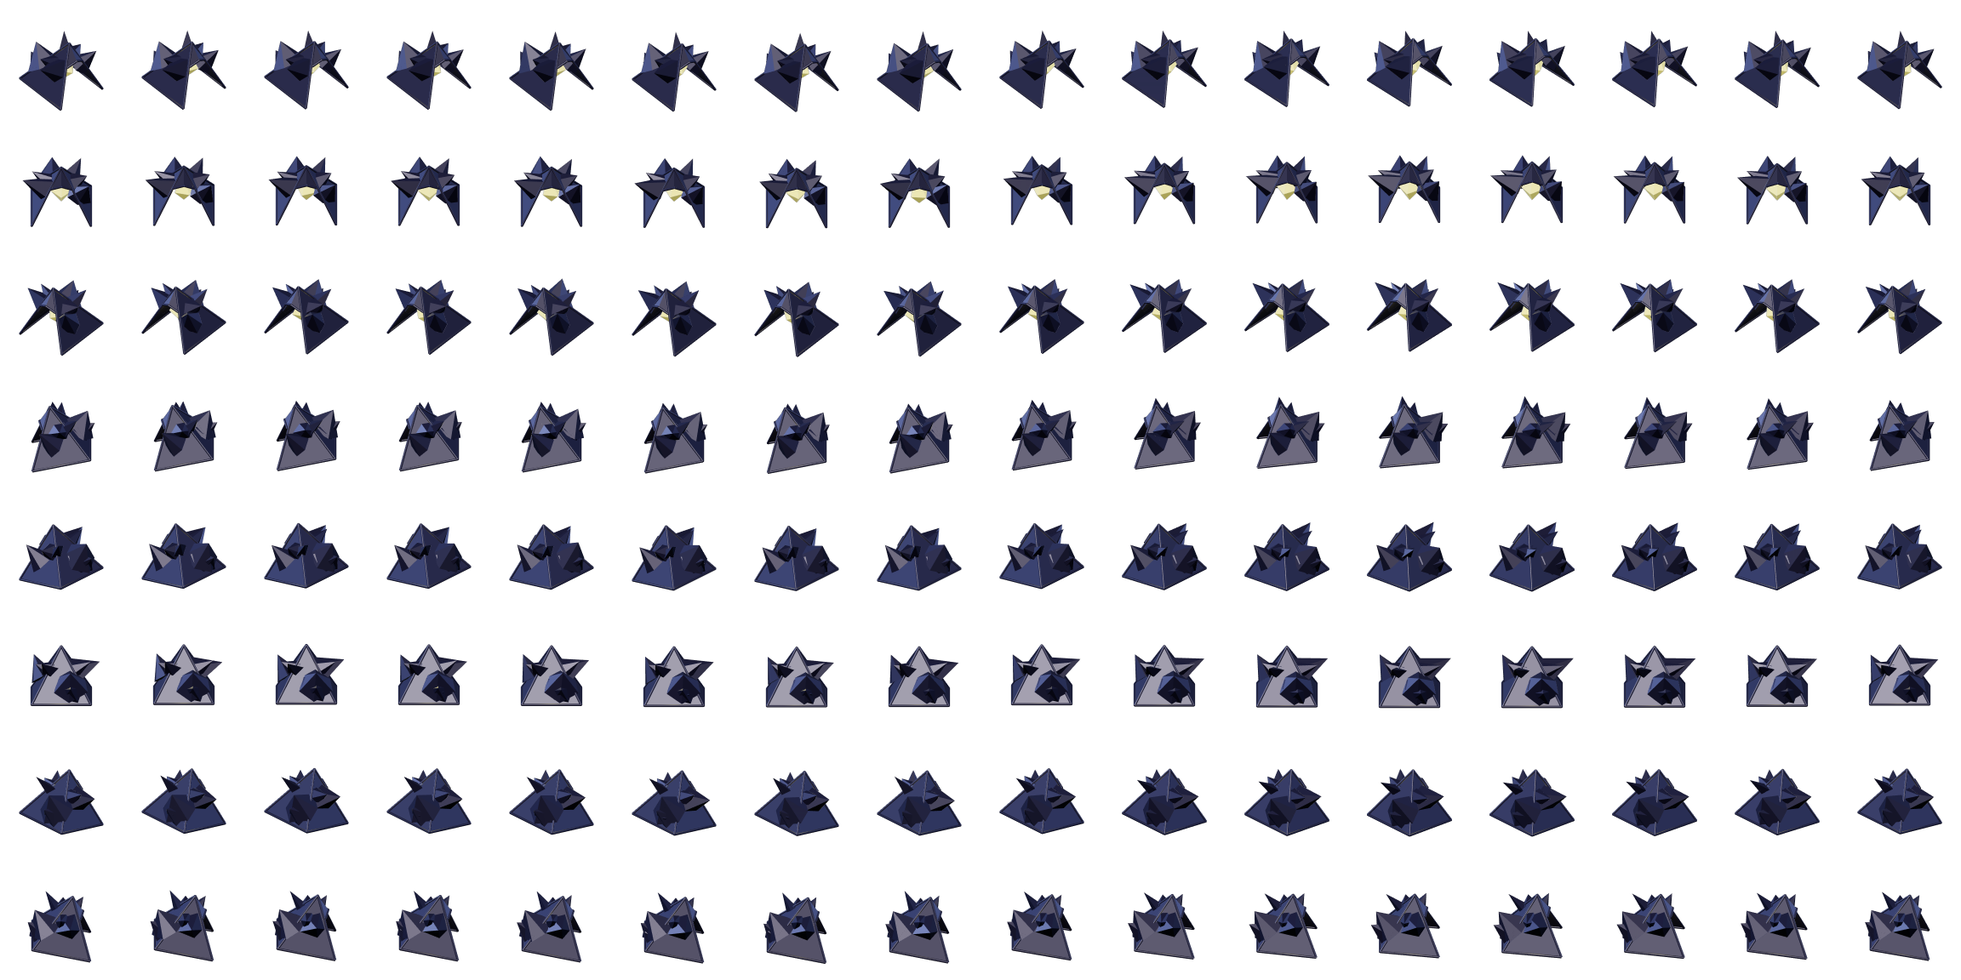
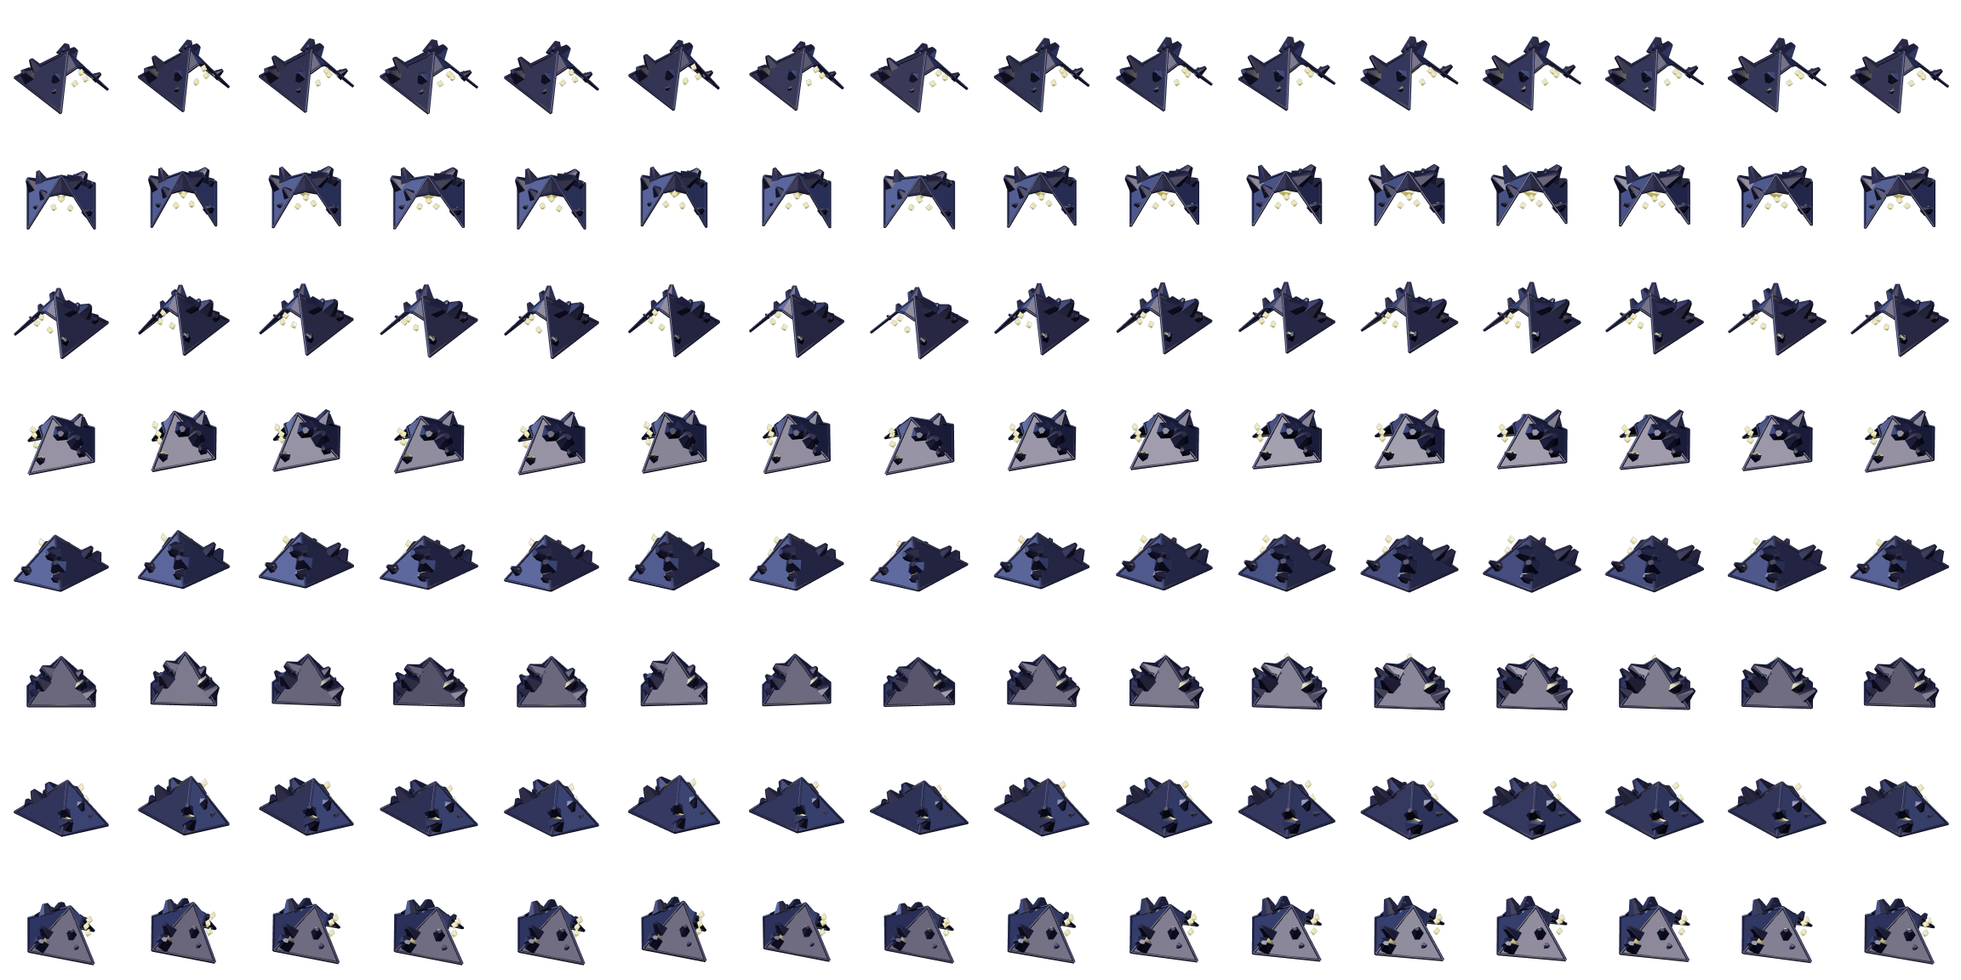
Prism Hood: the cute hood of design No. 388, three hovering gems in a triangle before the diamond; the shard twitch is gone
The electric brawler (still id 'prism', so saves and followers carry over) is re-baked from No. 391: the hollow black pyramid
hood drooping over the diamond, black hex crystals breathing on its coat, three small gems hovering in a triangle
(one above two) before the diamond, a squash-and-stretch bounce. The diamond turns a quarter turn a loop and the
gems half a turn, so the 8 idle frames close; the twitch (frame-rate jolts) is removed from evolution.js and
its test replaced by one that the hood advances one frame per 7 steps like the others. Build 2026-10-16i.

Claude-Session: https://claude.ai/code/session_0115DZYYhipQqSk6LHvQcEfz

diff --git a/game.html b/game.html
@@ -1363,12 +1363,12 @@ function _showError(msg) {
 // Script files that failed to download. A missing file raises no error of its
 // own — only the "Can't find variable" from whatever needed it — so the load
 // failure is caught here, on its way down (capture phase).
-// THE BUILD. Every script URL below carries ?v=2026-10-16h, so a new deploy
+// THE BUILD. Every script URL below carries ?v=2026-10-16i, so a new deploy
 // fetches a matching set: REPORTED, an iPad ran the new js/indexart.js against
 // an old cached js/config.js ("Attempted to assign to readonly property").
 // Change this, the ?v= on every script tag and BUILD_VERSION in js/config.js
 // together (tests/boot.js checks they agree).
-window.__PAGE_BUILD = "2026-10-16h";
+window.__PAGE_BUILD = "2026-10-16i";
 window.__bootFailed = [];
 window.addEventListener("error", function (e) {
     var t = e && e.target;
@@ -1404,53 +1404,53 @@ if (!CanvasRenderingContext2D.prototype.roundRect) {
 </script>
 
 <!-- Game scripts — load order matters (globals first, logic last) -->
-<script src="js/config.js?v=2026-10-16h"></script>
-<script src="js/icons.js?v=2026-10-16h"></script>
-<script src="js/rng.js?v=2026-10-16h"></script>
-<script src="js/traits.js?v=2026-10-16h"></script>
-<script src="js/elements.js?v=2026-10-16h"></script>
-<script src="js/combat.js?v=2026-10-16h"></script>
-<script src="js/species.js?v=2026-10-16h"></script>
-<script src="js/levels.js?v=2026-10-16h"></script>
-<script src="js/predator_randomizer.js?v=2026-10-16h"></script>
-<script src="js/mass.js?v=2026-10-16h"></script>
-<script src="js/infest.js?v=2026-10-16h"></script>
-<script src="js/power.js?v=2026-10-16h"></script>
-<script src="js/save.js?v=2026-10-16h"></script>
-<script src="js/camp.js?v=2026-10-16h"></script>
-<script src="js/wavedata.js?v=2026-10-16h"></script>
-<script src="js/helpers.js?v=2026-10-16h"></script>
-<script src="js/predator.js?v=2026-10-16h"></script>
-<script src="js/abilities.js?v=2026-10-16h"></script>
-<script src="js/world.js?v=2026-10-16h"></script>
-<script src="js/commands.js?v=2026-10-16h"></script>
-<script src="js/npc.js?v=2026-10-16h"></script>
-<script src="js/codex.js?v=2026-10-16h"></script>
-<script src="js/draw.js?v=2026-10-16h"></script>
-<script src="js/beetle3d.js?v=2026-10-16h"></script>
-<script src="js/bugs3d.js?v=2026-10-16h"></script>
-<script src="js/ui.js?v=2026-10-16h"></script>
-<script src="js/waves.js?v=2026-10-16h"></script>
-<script src="js/drops.js?v=2026-10-16h"></script>
-<script src="js/clone.js?v=2026-10-16h"></script>
-<script src="js/clonework.js?v=2026-10-16h"></script>
-<script src="js/broods.js?v=2026-10-16h"></script>
-<script src="js/raids.js?v=2026-10-16h"></script>
-<script src="js/ultra.js?v=2026-10-16h"></script>
-<script src="js/formations.js?v=2026-10-16h"></script>
-<script src="js/breakout.js?v=2026-10-16h"></script>
-<script src="js/nightraids.js?v=2026-10-16h"></script>
-<script src="js/bonds.js?v=2026-10-16h"></script>
-<script src="js/autoplay.js?v=2026-10-16h"></script>
-<script src="js/indexart.js?v=2026-10-16h"></script>
-<script src="js/modules.js?v=2026-10-16h"></script>
-<script src="js/shieldcells.js?v=2026-10-16h"></script>
-<script src="js/evolution.js?v=2026-10-16h"></script>
-<script src="js/buildmenu.js?v=2026-10-16h"></script>
-<script src="js/input.js?v=2026-10-16h"></script>
-<script src="js/game.js?v=2026-10-16h"></script>
-<script src="js/tutorial.js?v=2026-10-16h"></script>
-<script src="js/dev.js?v=2026-10-16h"></script>
+<script src="js/config.js?v=2026-10-16i"></script>
+<script src="js/icons.js?v=2026-10-16i"></script>
+<script src="js/rng.js?v=2026-10-16i"></script>
+<script src="js/traits.js?v=2026-10-16i"></script>
+<script src="js/elements.js?v=2026-10-16i"></script>
+<script src="js/combat.js?v=2026-10-16i"></script>
+<script src="js/species.js?v=2026-10-16i"></script>
+<script src="js/levels.js?v=2026-10-16i"></script>
+<script src="js/predator_randomizer.js?v=2026-10-16i"></script>
+<script src="js/mass.js?v=2026-10-16i"></script>
+<script src="js/infest.js?v=2026-10-16i"></script>
+<script src="js/power.js?v=2026-10-16i"></script>
+<script src="js/save.js?v=2026-10-16i"></script>
+<script src="js/camp.js?v=2026-10-16i"></script>
+<script src="js/wavedata.js?v=2026-10-16i"></script>
+<script src="js/helpers.js?v=2026-10-16i"></script>
+<script src="js/predator.js?v=2026-10-16i"></script>
+<script src="js/abilities.js?v=2026-10-16i"></script>
+<script src="js/world.js?v=2026-10-16i"></script>
+<script src="js/commands.js?v=2026-10-16i"></script>
+<script src="js/npc.js?v=2026-10-16i"></script>
+<script src="js/codex.js?v=2026-10-16i"></script>
+<script src="js/draw.js?v=2026-10-16i"></script>
+<script src="js/beetle3d.js?v=2026-10-16i"></script>
+<script src="js/bugs3d.js?v=2026-10-16i"></script>
+<script src="js/ui.js?v=2026-10-16i"></script>
+<script src="js/waves.js?v=2026-10-16i"></script>
+<script src="js/drops.js?v=2026-10-16i"></script>
+<script src="js/clone.js?v=2026-10-16i"></script>
+<script src="js/clonework.js?v=2026-10-16i"></script>
+<script src="js/broods.js?v=2026-10-16i"></script>
+<script src="js/raids.js?v=2026-10-16i"></script>
+<script src="js/ultra.js?v=2026-10-16i"></script>
+<script src="js/formations.js?v=2026-10-16i"></script>
+<script src="js/breakout.js?v=2026-10-16i"></script>
+<script src="js/nightraids.js?v=2026-10-16i"></script>
+<script src="js/bonds.js?v=2026-10-16i"></script>
+<script src="js/autoplay.js?v=2026-10-16i"></script>
+<script src="js/indexart.js?v=2026-10-16i"></script>
+<script src="js/modules.js?v=2026-10-16i"></script>
+<script src="js/shieldcells.js?v=2026-10-16i"></script>
+<script src="js/evolution.js?v=2026-10-16i"></script>
+<script src="js/buildmenu.js?v=2026-10-16i"></script>
+<script src="js/input.js?v=2026-10-16i"></script>
+<script src="js/game.js?v=2026-10-16i"></script>
+<script src="js/tutorial.js?v=2026-10-16i"></script>
+<script src="js/dev.js?v=2026-10-16i"></script>
 <script>
 // ── BOOT CHECK ────────────────────────────────────────────
 // Every file above must have arrived and run before init.js starts the game.
@@ -1503,7 +1503,7 @@ if (!CanvasRenderingContext2D.prototype.roundRect) {
     document.body.appendChild(d);
 })();
 </script>
-<script src="js/init.js?v=2026-10-16h"></script>
+<script src="js/init.js?v=2026-10-16i"></script>
 
 </body>
 </html>

diff --git a/design/evolutions/bake.js b/design/evolutions/bake.js
@@ -11,7 +11,7 @@ const fs = require('fs'), path = require('path');
 const THREE_DIR = process.argv[2], OUT = process.argv[3];
 const core = fs.readFileSync(path.join(__dirname, 'forms-core.js'), 'utf8');
 // forms2.js (helpers + Nos. 33-52), forms3.js (sentinels, robots, drones, Nos. 53-72) and forms4.js (ancient relics, Nos. 73-92), forms5.js (the corroded crystal, Nos. 93-103), forms6.js (the flux brawler, Nos. 104-115), forms7.js (the core mage, Nos. 116-125), forms8.js (the toxic brawler, Nos. 126-141), forms9.js (the core worker, Nos. 142-144), forms10.js (the ice maw, Nos. 145-157), forms11-13.js (the ammonite in its jar, Nos. 158-222), forms14.js (cloaks and pyramids, Nos. 223-331), forms15.js (the rock porcupine, Nos. 332-361) register FORMS2[no].
-const f2src = fs.readFileSync(path.join(__dirname, 'forms2.js'), 'utf8'), f3src = fs.readFileSync(path.join(__dirname, 'forms3.js'), 'utf8'), f4src = fs.readFileSync(path.join(__dirname, 'forms4.js'), 'utf8'), f5src = fs.readFileSync(path.join(__dirname, 'forms5.js'), 'utf8'), f6src = fs.readFileSync(path.join(__dirname, 'forms6.js'), 'utf8'), f7src = fs.readFileSync(path.join(__dirname, 'forms7.js'), 'utf8'), f8src = fs.readFileSync(path.join(__dirname, 'forms8.js'), 'utf8'), f9src = fs.readFileSync(path.join(__dirname, 'forms9.js'), 'utf8'), f10src = fs.readFileSync(path.join(__dirname, 'forms10.js'), 'utf8'), f11src = fs.readFileSync(path.join(__dirname, 'forms11.js'), 'utf8'), f12src = fs.readFileSync(path.join(__dirname, 'forms12.js'), 'utf8'), f13src = fs.readFileSync(path.join(__dirname, 'forms13.js'), 'utf8'), f14src = fs.readFileSync(path.join(__dirname, 'forms14.js'), 'utf8'), f15src = fs.readFileSync(path.join(__dirname, 'forms15.js'), 'utf8');
+const f2src = fs.readFileSync(path.join(__dirname, 'forms2.js'), 'utf8'), f3src = fs.readFileSync(path.join(__dirname, 'forms3.js'), 'utf8'), f4src = fs.readFileSync(path.join(__dirname, 'forms4.js'), 'utf8'), f5src = fs.readFileSync(path.join(__dirname, 'forms5.js'), 'utf8'), f6src = fs.readFileSync(path.join(__dirname, 'forms6.js'), 'utf8'), f7src = fs.readFileSync(path.join(__dirname, 'forms7.js'), 'utf8'), f8src = fs.readFileSync(path.join(__dirname, 'forms8.js'), 'utf8'), f9src = fs.readFileSync(path.join(__dirname, 'forms9.js'), 'utf8'), f10src = fs.readFileSync(path.join(__dirname, 'forms10.js'), 'utf8'), f11src = fs.readFileSync(path.join(__dirname, 'forms11.js'), 'utf8'), f12src = fs.readFileSync(path.join(__dirname, 'forms12.js'), 'utf8'), f13src = fs.readFileSync(path.join(__dirname, 'forms13.js'), 'utf8'), f14src = fs.readFileSync(path.join(__dirname, 'forms14.js'), 'utf8'), f15src = fs.readFileSync(path.join(__dirname, 'forms15.js'), 'utf8'), f16src = fs.readFileSync(path.join(__dirname, 'forms16.js'), 'utf8'), f17src = fs.readFileSync(path.join(__dirname, 'forms17.js'), 'utf8');
 const JOBS = [
   { id: 'reaver', form: 'reaver', color: '#ffee33', idleAct: 0.3, action: [0.8, 1.0] },
   { id: 'bloom',  form: 'bunker', color: '#ff3300', idleAct: 0.2, action: [0.5, 1.0] },
@@ -24,10 +24,11 @@ const JOBS = [
   { id: 'pod',    form: 71, color: '#ffee33', idleAct: 0.2, action: [0.55, 1.0] },
   { id: 'halo',   form: 90, color: '#ff3300', idleAct: 0.1, action: [0.6, 1.0] },
   // No. 101, the toxic sniper: the pool's shift loops over the idle period; its action is the recoil of a shot.
+  // No. 391 (the game sprite of 388), the electric brawler: the hood with black hex crystals that breathe, three hovering gems in a triangle before the diamond; it bounces.
   // No. 361, the fire brawler: a pitch-black cut gem with red shards, the two front spikes black; its action frames hunch it and bristle the quills, up and back.
   { id: 'quillstone', form: 361, color: '#ff3300', idleAct: 0, action: [0, 1.0], pulse: true },
   // No. 314 (a game-ready No. 312), the electric brawler: a black hollow pyramid hood drooping over the top half of an octahedron diamond; its action frames bow the hood and flare the diamond.
-  { id: 'prism', form: 331, color: '#ffe033', idleAct: 0, action: [0, 1.0], pulse: true },
+  { id: 'prism', form: 391, color: '#ffe033', idleAct: 0, action: [0, 1.0], pulse: true },
   // No. 220, the core mage: a black shell-jar dragged on its side by fat irregular tentacles, a shard horn at its mouth; the horn drops to aim in its action frames.
   { id: 'hornshell', form: 220, color: '#00ccaa', idleAct: 0, action: [0, 1.0], pulse: true },
   // No. 156, the ice brawler: a dome with a cave mouth; the rubble is its ground layer; its action frames are the bite (the fangs swing down), up and back.
@@ -61,6 +62,8 @@ window.__bake = async function (jobs, CELL, HALF, LOOK_Y) {
   ${f13src}
   ${f14src}
   ${f15src}
+  ${f16src}
+  ${f17src}
   const out = {};
   const renderer = new T.WebGLRenderer({ antialias: true, alpha: true, preserveDrawingBuffer: true, premultipliedAlpha: false });
   renderer.setPixelRatio(1); renderer.setSize(CELL * 2, CELL * 2, false);

diff --git a/js/evolution.js b/js/evolution.js
@@ -86,10 +86,9 @@
 //          every MAW_EVERY frames the fangs slam down: the nearest enemy takes MAW_MULT × its
 //          power in ice damage and is frozen stiff for MAW_STUN frames, and everything within
 //          MAW_SLOW_R of it is slowed to MAW_SLOW for MAW_SLOW_FRAMES.
-//          PRISM HOOD (the ELECTRIC BRAWLER, design No. 312: a hollow black pyramid whose front
-//          droops like a hood over the top half of an octahedron diamond, irregular black shards
-//          growing from its coat that TWITCH, as if lightning were under the hood: the shards stay
-//          black and move, subtly: each idle frame nudges them a few degrees, cycled slowly, a little quicker walking),
+//          PRISM HOOD (the ELECTRIC BRAWLER, design No. 388: a hollow black pyramid whose front droops like a
+//          hood over a diamond, black hex crystals on its coat that breathe, and three small gems hovering in a
+//          triangle before the diamond; it bounces as it goes),
 //          replaced the Storm Manta
 //          for new evolutions and does the same STATIC RUSH (the Storm Manta stays defined, marked legacy,
 //          for followers already evolved into it).
@@ -149,7 +148,7 @@ const EVOLUTIONS = {
               cell: 144, anchor: [72, 114.2], core: [72, 93], noGlow: true, color: "#9fe8ff", ground: "img/evo/maw_g.png" },
     // The ELECTRIC BRAWLER, design No. 312: a black hollow pyramid hood over a diamond. The diamond turns, so its sheet carries its own light.
     prism:  { id: "prism",  name: "PRISM HOOD",   element: "electric", role: "brawler", move: "STATIC RUSH",  sheet: "img/evo/prism.png",
-              cell: 144, anchor: [72, 114.2], core: [72, 75.9], noGlow: true, color: "#ffee33", twitch: { idle: 7, walk: 4 } },
+              cell: 144, anchor: [72, 114.2], core: [72, 77], noGlow: true, color: "#ffee33" },
     // The CORE MAGE ("sniper" in the code), design No. 220: a black shell-jar dragged along the ground on its side by fat, irregular
     // tentacles, a shard horn at the mouth. The tentacles move, so its sheet carries its own light.
     hornshell:{ id: "hornshell", name: "HORNSHELL", element: "core", role: "sniper", move: "AEGIS BLOOM", sheet: "img/evo/hornshell.png",
@@ -519,14 +518,6 @@ function _evoFrame(f, d, f0) {
     const rise = m < EVO_MOLT ? 1 - Math.pow(1 - u, 3) : 1;
     const sigK = f._sigAt !== undefined ? (f0 - f._sigAt) / EVO_ACT_FRAMES : 9;
     let col = Math.floor(f0 / 7) % 8;
-    // TWITCH (the Prism Hood): its idle frames are eight slightly different nudges of its shards, cycled slowly, and a little quicker while it walks
-    if (d.twitch) {
-        if (f._evTf !== f0) {
-            const moved = f._evx !== undefined && Math.hypot(f.x - f._evx, f.y - f._evy) > 0.002;
-            f._evx = f.x; f._evy = f.y; f._evTf = f0; f._evT = (f._evT || 0) + 1 / (moved ? d.twitch.walk : d.twitch.idle);
-        }
-        col = Math.floor(f._evT || 0) % 8;
-    }
     if (sigK >= 0 && sigK < 1) col = 8 + Math.min(7, Math.floor(sigK * 8));
     else if (f.state === "attack") col = 8 + Math.min(7, Math.floor(((f.attackAnim || 0) / Math.PI) * 8));
     return { m, rise, sigK, col, row: _evoFacing(f), s: EVO_SCALE * (0.6 + 0.4 * rise) };

diff --git a/tests/evolution.js b/tests/evolution.js
@@ -336,21 +336,12 @@ function same(a, b, m) { if (a !== b) throw new Error(`${m}: expected ${JSON.str
         ok(r.dist < 1 && r.dmg > 0 && r.stun, 'the prism hood did not rush: ' + JSON.stringify(r));
     });
 
-    check('THE ASK: the PRISM HOOD\'s black shards TWITCH, subtly: its idle frames cycle slowly, and a little quicker while it walks', () => {
+    check('the PRISM HOOD animates smoothly like the others: one idle frame per 7 steps, no twitch', () => {
         const r = run(`(function(){ followers.length = 0; actors = actors.filter(a => !a.isFollower);
             spawnFollowerAtCrystal('electric'); const f = followers[0]; f.returningToCrystal = false; f.role = 'brawler'; f.evolved = 'prism'; f._moltAt = -1e9; f.x = 20; f.y = 2; f.dirX = 1; f.dirY = 0;
-            const d = EVOLUTIONS.prism, still = [], walk = [];
-            const colOf = () => { frame++; const fr = _evoFrame(f, d, frame); return fr.col; };
-            colOf(); for (let i = 0; i < 24; i++) still.push(colOf());
-            for (let i = 0; i < 24; i++) { f.x += 0.02; walk.push(colOf()); }
-            const changes = a => a.filter((c, i) => i && c !== a[i - 1]).length;
-            return { still: changes(still), walk: changes(walk), cols: [...new Set(still)].length, tw: !!d.twitch, cell: d.cell, kept: [...still, ...walk].every(c => c >= 0 && c < 8) }; })()`);
-        ok(r.tw && r.kept, 'it does not twitch: ' + JSON.stringify(r));
-        ok(r.still >= 2 && r.still <= 5 && r.cols >= 3, 'standing still it should change frame every few steps, subtly (not a flicker): ' + JSON.stringify(r));
-        ok(r.walk > r.still, 'walking should twitch faster than standing: ' + JSON.stringify(r));
-        // the other forms keep their slow, smooth idle (one frame per 7 steps)
-        const slow = run(`(function(){ spawnFollowerAtCrystal('fire'); const f = followers[followers.length - 1]; f.evolved = 'bloom'; f._moltAt = -1e9; const cs = []; for (let i = 0; i < 14; i++) { frame++; cs.push(_evoFrame(f, EVOLUTIONS.bloom, frame).col); } return cs.filter((c, i) => i && c !== cs[i - 1]).length; })()`);
-        ok(slow <= 3, 'the others should not twitch: ' + slow);
+            const d = EVOLUTIONS.prism, cols = []; for (let i = 0; i < 28; i++) { frame++; cols.push(_evoFrame(f, d, frame).col); }
+            return { tw: !!d.twitch, changes: cols.filter((c, i) => i && c !== cols[i - 1]).length }; })()`);
+        ok(!r.tw, 'the prism hood still has a twitch'); ok(r.changes >= 3 && r.changes <= 5, 'it should advance a frame every 7 steps: ' + JSON.stringify(r));
     });
     check('THE ASK: HEAVY HAUL — the hover hauler pays double shards, hauls faster and reaches further than a plain flux worker', () => {
         const r = run(`(function(){ followers.length = 0; actors = actors.filter(a => !a.isFollower);

diff --git a/design/evolutions/forms14.js b/design/evolutions/forms14.js
@@ -435,9 +435,10 @@ function _hoodPyramid(o) {
     if (o.jolt) jolt(ph, ac);
     if (o.bounce) { const sq = Math.sin(ph * 2); pv.position.y = hv + 0.05 * Math.abs(Math.sin(ph)); pv.scale.set(1 - 0.035 * sq, 1 + 0.07 * sq, 1 - 0.035 * sq); pv.rotation.z = 0.04 * Math.sin(ph); pv.rotation.x = tilt - 0.12 * ac; }
     else { pv.position.y = hv + 0.03 * Math.sin(ph); pv.rotation.x = tilt - 0.12 * ac; }
-    cute.tri.forEach(T3 => { T3.gem.position.y = dY + 0.02 + T3.y + 0.025 * Math.sin(ph * 2 + T3.i * 2.1); T3.gem.position.z = T3.gz + 0.02 * Math.sin(ph + T3.i * 1.7) + 0.07 * ac; T3.gem.position.x = T3.x + 0.015 * Math.sin(ph * 1.5 + T3.i); T3.dd.main.rotation.y = ph * 1.2 + T3.i; T3.dd.core.rotation.y = -ph * 1.2 - T3.i; });   // they hover and bob out of step, turning slowly
+    cute.tri.forEach(T3 => { T3.gem.position.y = dY + 0.02 + T3.y + 0.025 * Math.sin(ph * 2 + T3.i * 2.1); T3.gem.position.z = T3.gz + 0.02 * Math.sin(ph + T3.i * 1.7) + 0.07 * ac; T3.gem.position.x = T3.x + 0.015 * Math.sin(ph + T3.i); T3.dd.main.rotation.y = ph * 0.5 + T3.i; T3.dd.core.rotation.y = -ph * 0.5 - T3.i; });   // they hover and bob out of step, turning slowly
     cute.eyes.forEach(e => e.scale.y = 1.15 * (Math.sin(ph * 2 + 1.3) > 0.93 ? 0.12 : 1) * (1 + 0.2 * ac));   // a blink
-    cute.feet.forEach(F => { F.f.position.z = F.fz2 * R * 0.38 + 0.05 * Math.sin(ph * 2 + (F.fx2 > 0 ? PI : 0) + (F.fz2 > 0 ? 0 : PI / 2)); F.f.position.y = 0.09 + 0.025 * Math.max(0, Math.sin(ph * 2 + (F.fx2 > 0 ? PI : 0))); }); d.rotation.y = ph * 0.7; dc.rotation.y = -ph * 0.7; d.position.y = dY + 0.02 * Math.sin(ph * 2); dc.position.y = d.position.y;
+    cute.feet.forEach(F => { F.f.position.z = F.fz2 * R * 0.38 + 0.05 * Math.sin(ph * 2 + (F.fx2 > 0 ? PI : 0) + (F.fz2 > 0 ? 0 : PI / 2)); F.f.position.y = 0.09 + 0.025 * Math.max(0, Math.sin(ph * 2 + (F.fx2 > 0 ? PI : 0))); }); d.rotation.y = ph * 0.25; dc.rotation.y = -ph * 0.25; d.position.y = dY + 0.02 * Math.sin(ph * 2);   // a quarter turn a loop: the octahedron is the same every 90 degrees, so the idle loop closes
+     dc.position.y = d.position.y;
     dg.scale.setScalar(o.dR * (8 + 2 * Math.sin(ph * 3) + 5 * ac)); L.intensity = 1.4 + 0.4 * Math.sin(ph * 3) + 0.8 * ac;
     for (const s of shards) { const a = ph + (s.s > 0 ? 0 : PI); s.sg.position.set(s.s * o.shardR + Math.sin(a) * 0.05, hv + H * 0.55 + 0.06 * Math.sin(ph * 2 + s.s), 0.1 + 0.1 * Math.cos(a)); s.sg.rotation.set(0.2 * Math.sin(ph), a, s.s * 0.25); }
     for (const q of bsh) if (q.orbit) { const a = ph * 0.8 + q.ph; q.g.position.set(Math.sin(a) * q.rad, hv + H * q.hy + 0.05 * Math.sin(ph * 2 + q.ph), Math.cos(a) * q.rad * 0.7 + 0.05); q.g.rotation.set(0.15 * Math.sin(ph + q.ph), a, 0.2); } } };

diff --git a/design/evolutions/forms17.js b/design/evolutions/forms17.js
@@ -77,3 +77,6 @@ fx(387, "383 with three hovering gems, two above one.", () => _hoodPyramid(Objec
 fx(388, "383 with three hovering gems, one above two.", () => _hoodPyramid(Object.assign({}, _c380, _b383, { triGems: 'up' })));
 fx(389, "386 (feet, tufts, bobble) with three hovering gems, two above one.", () => _hoodPyramid(Object.assign({}, _c380, _b386, { triGems: 'down' })));
 fx(390, "386 (feet, tufts, bobble) with three hovering gems, one above two.", () => _hoodPyramid(Object.assign({}, _c380, _b386, { triGems: 'up' })));
+
+// The game sprite of No. 388: the hood facing forward, scaled to fill its cell.
+fx(391, "388, the game sprite.", () => _hoodPyramid(Object.assign({}, _c380, _b383, { triGems: 'up', yaw: 0, S: 1.45 })));

diff --git a/js/config.js b/js/config.js
@@ -4,7 +4,7 @@
 
 // The build this file belongs to — the same as window.__PAGE_BUILD and the
 // ?v= on every script tag in game.html (the boot check compares them).
-const BUILD_VERSION = "2026-10-16h";
+const BUILD_VERSION = "2026-10-16i";
 
 // ── GLOBAL ERROR DISPLAY ──────────────────────────────────
 // Lives in game.html (_showError), before any file loads. This file used to
